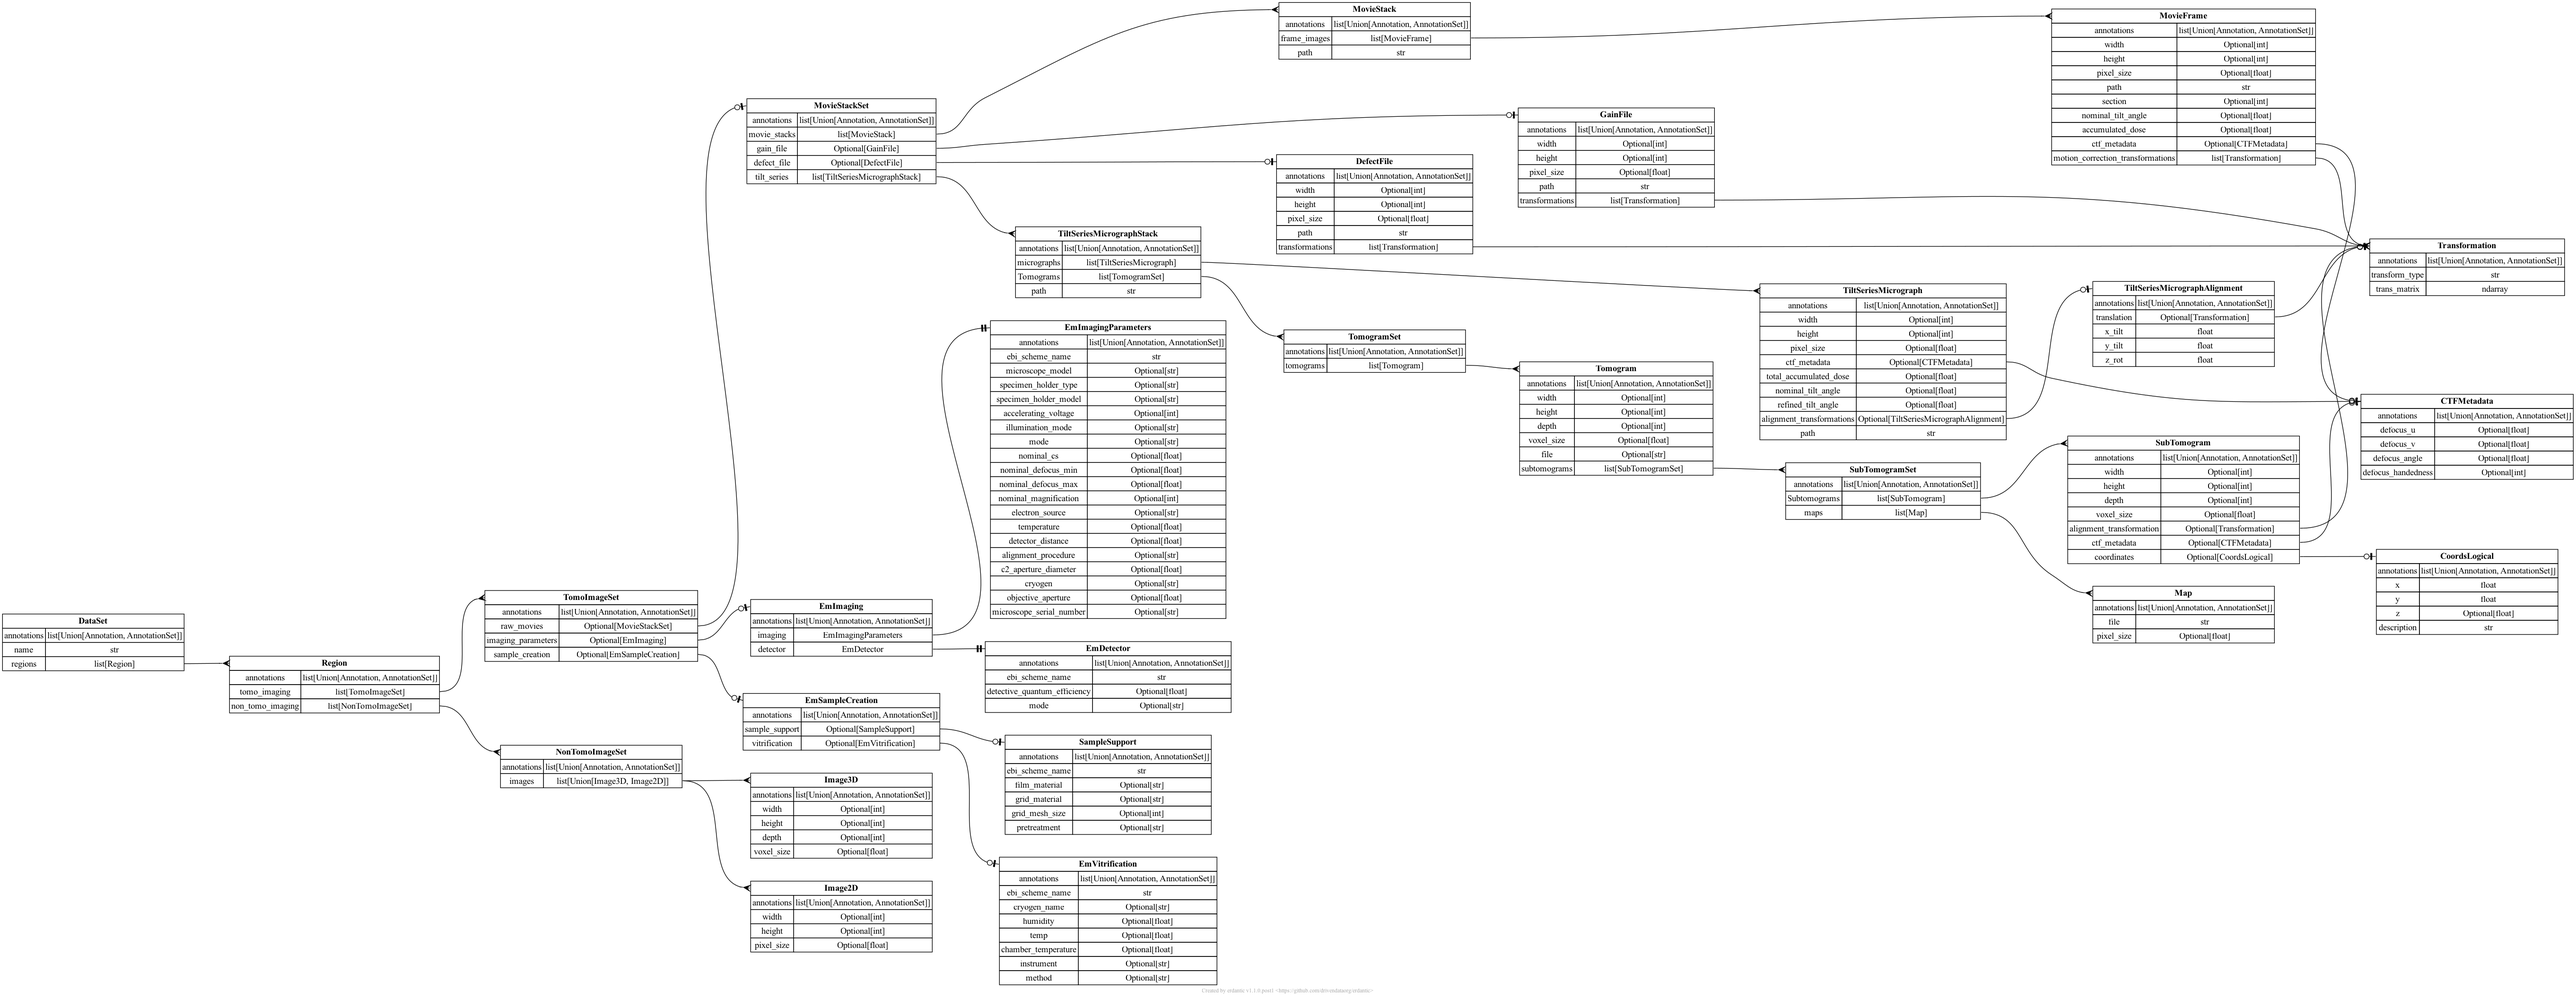
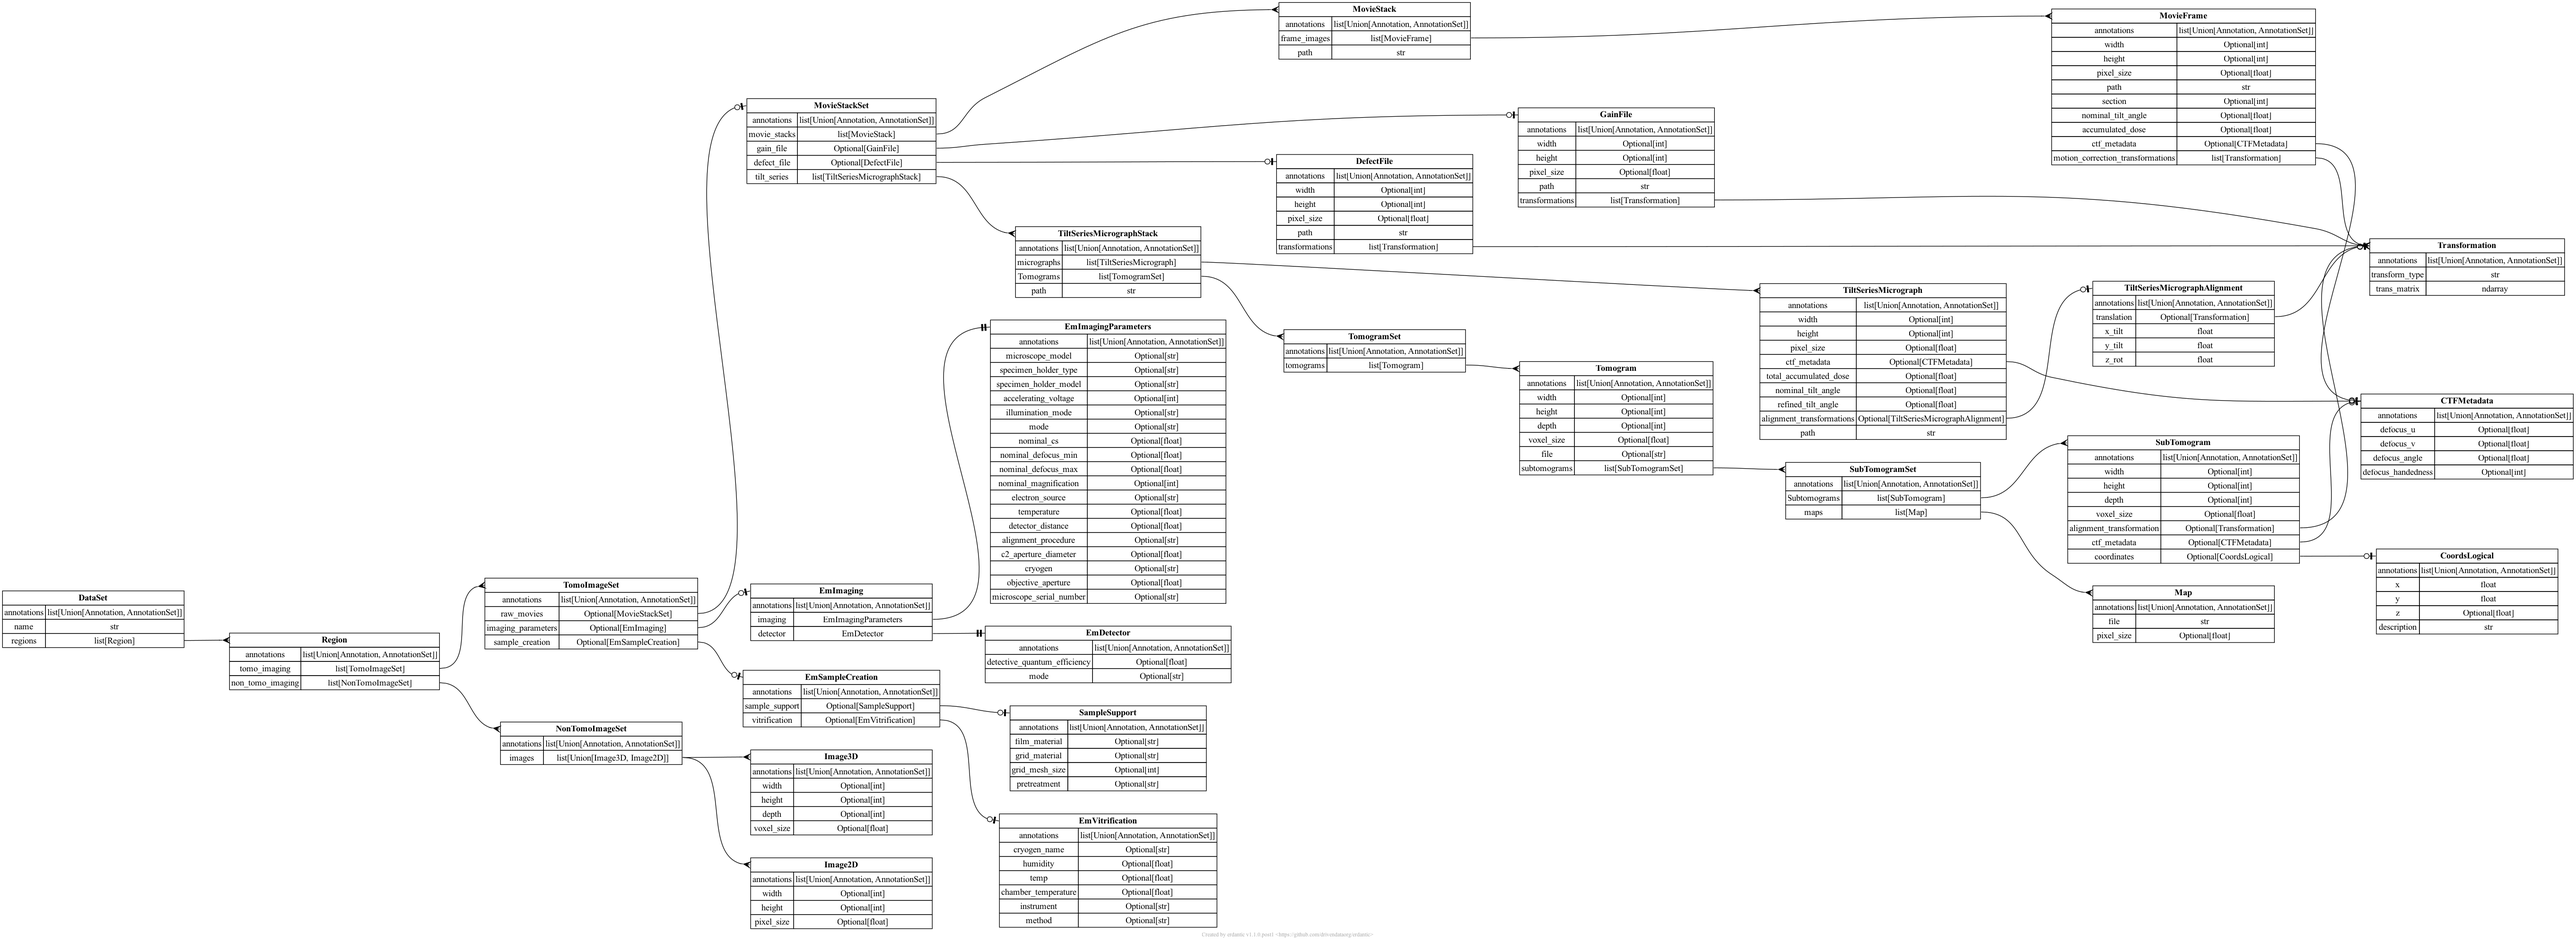
Make ebi field PrivateAttr

diff --git a/tomobabel/models/ebi_compatibility/ebi_validation.py b/tomobabel/models/ebi_compatibility/ebi_validation.py
@@ -1,6 +1,6 @@
 from typing import List
 from warnings import warn
-from pydantic import model_validator, Field
+from pydantic import model_validator, PrivateAttr
 import re
 from tomobabel.models.basemodels import ConfiguredBaseModel
 from tomobabel.models.ebi_compatibility.ebi_cats import DEPOBJ_CATS
@@ -12,14 +12,8 @@ class EbiLinkedBaseModel(ConfiguredBaseModel):
     against them
     """
 
-    ebi_scheme_name: str = Field(
-        default="",
-        description=(
-            "The name of the field in the EBI schema that corresponds to this model"
-            " there needs to be a 1:1 correspondance between the Fields in the model"
-            " and the fields in that EBI scheme"
-        ),
-    )
+    # This is the field in the EBI dict that this model corresponds to
+    _ebi_scheme_name: str = PrivateAttr(default="")
 
     @model_validator(mode="after")
     def validate_ebi_limited_fields(self):
@@ -29,11 +23,7 @@ class EbiLinkedBaseModel(ConfiguredBaseModel):
 
     @property
     def ebi_fields(self) -> List[str]:
-        fields = [
-            x
-            for x in self.__class__.model_fields.keys()
-            if x not in ("annotations", "ebi_scheme_name")
-        ]
+        fields = [x for x in self.__class__.model_fields.keys() if x != "annotations"]
         return fields
 
 
@@ -52,20 +42,20 @@ def validate_fields_against_ebi(cets_obj: EbiLinkedBaseModel) -> None:
 
     """
     for attr in cets_obj.ebi_fields:
-        ebi_dict = DEPOBJ_CATS[cets_obj.ebi_scheme_name]
+        ebi_dict = DEPOBJ_CATS[cets_obj._ebi_scheme_name]
         options = ebi_dict[attr]["options"]
         if getattr(cets_obj, attr) is not None:
             value = str(getattr(cets_obj, attr))
             if options and value not in options:
                 warn(
                     f"CETS model: {cets_obj.__class__.__name__}.{attr}: The value"
-                    f"{value} is not on the approved list of values in the EBI schema"
+                    f" {value} is not on the approved list of values in the EBI schema"
                     " for deposition in the PDB/EMDB"
                 )
             elif not re.match(str(ebi_dict[attr]["regex"]), value):
                 warn(
                     f"CETS model: {cets_obj.__class__.__name__}.{attr}: The value"
-                    " {value} does not satisfy the validation regex for this field in"
+                    f" {value} does not satisfy the validation regex for this field in"
                     " the EBI schema"
                 )
 
@@ -75,15 +65,15 @@ def match_ebi_linked_model_fields(cets_obj: EbiLinkedBaseModel) -> None:
     Check that the fields in an EbiLinkedBaseModel match the ebi schema.
 
     The EbiLinkedBaseModel does not have to contain every field for the EBI scheme for
-    that entry, but cannot containany additional fields.  If it does a standard
+    that entry, but cannot contain any additional fields.  If it does a standard
     ConfiguredBaseModel should be used instead.
     """
     bad_fields = []
     for field in cets_obj.ebi_fields:
-        ebi_dict = DEPOBJ_CATS.get(cets_obj.ebi_scheme_name)
+        ebi_dict = DEPOBJ_CATS.get(cets_obj._ebi_scheme_name)
         if not ebi_dict:
             raise ValueError(
-                f"{cets_obj.ebi_scheme_name} is not a valid EBI data model field"
+                f"{cets_obj._ebi_scheme_name} is not a valid EBI data model field"
             )
         elif str(field) not in ebi_dict.keys():
             bad_fields.append(field)

diff --git a/tomobabel/models/imaging.py b/tomobabel/models/imaging.py
@@ -12,7 +12,7 @@ from tomobabel.models.ebi_compatibility.ebi_validation import EbiLinkedBaseModel
 
 
 class SampleSupport(EbiLinkedBaseModel):
-    ebi_scheme_name: str = Field(default="em_sample_support")
+    _ebi_scheme_name: str = "em_sample_support"
     film_material: Optional[str] = Field(default=None, description="")
     grid_material: Optional[str] = Field(default=None, description="")
     grid_mesh_size: Optional[int] = Field(default=None, description="")
@@ -20,13 +20,13 @@ class SampleSupport(EbiLinkedBaseModel):
 
 
 class EmDetector(EbiLinkedBaseModel):
-    ebi_scheme_name: str = Field(default="em_detector")
+    _ebi_scheme_name: str = "em_detector"
     detective_quantum_efficiency: Optional[float] = Field(default=None, description="")
     mode: Optional[str] = Field(default=None, description="")
 
 
 class EmImagingParameters(EbiLinkedBaseModel):
-    ebi_scheme_name: str = Field(default="em_imaging")
+    _ebi_scheme_name: str = "em_imaging"
     microscope_model: Optional[str] = Field(default=None, description="")
     specimen_holder_type: Optional[str] = Field(default=None, description="")
     specimen_holder_model: Optional[str] = Field(default=None, description="")
@@ -48,7 +48,7 @@ class EmImagingParameters(EbiLinkedBaseModel):
 
 
 class EmVitrification(EbiLinkedBaseModel):
-    ebi_scheme_name: str = Field(default="em_vitrification")
+    _ebi_scheme_name: str = "em_vitrification"
     cryogen_name: Optional[str] = Field(default=None, description="")
     humidity: Optional[float] = Field(default=None, description="")
     temp: Optional[float] = Field(default=None, description="")
